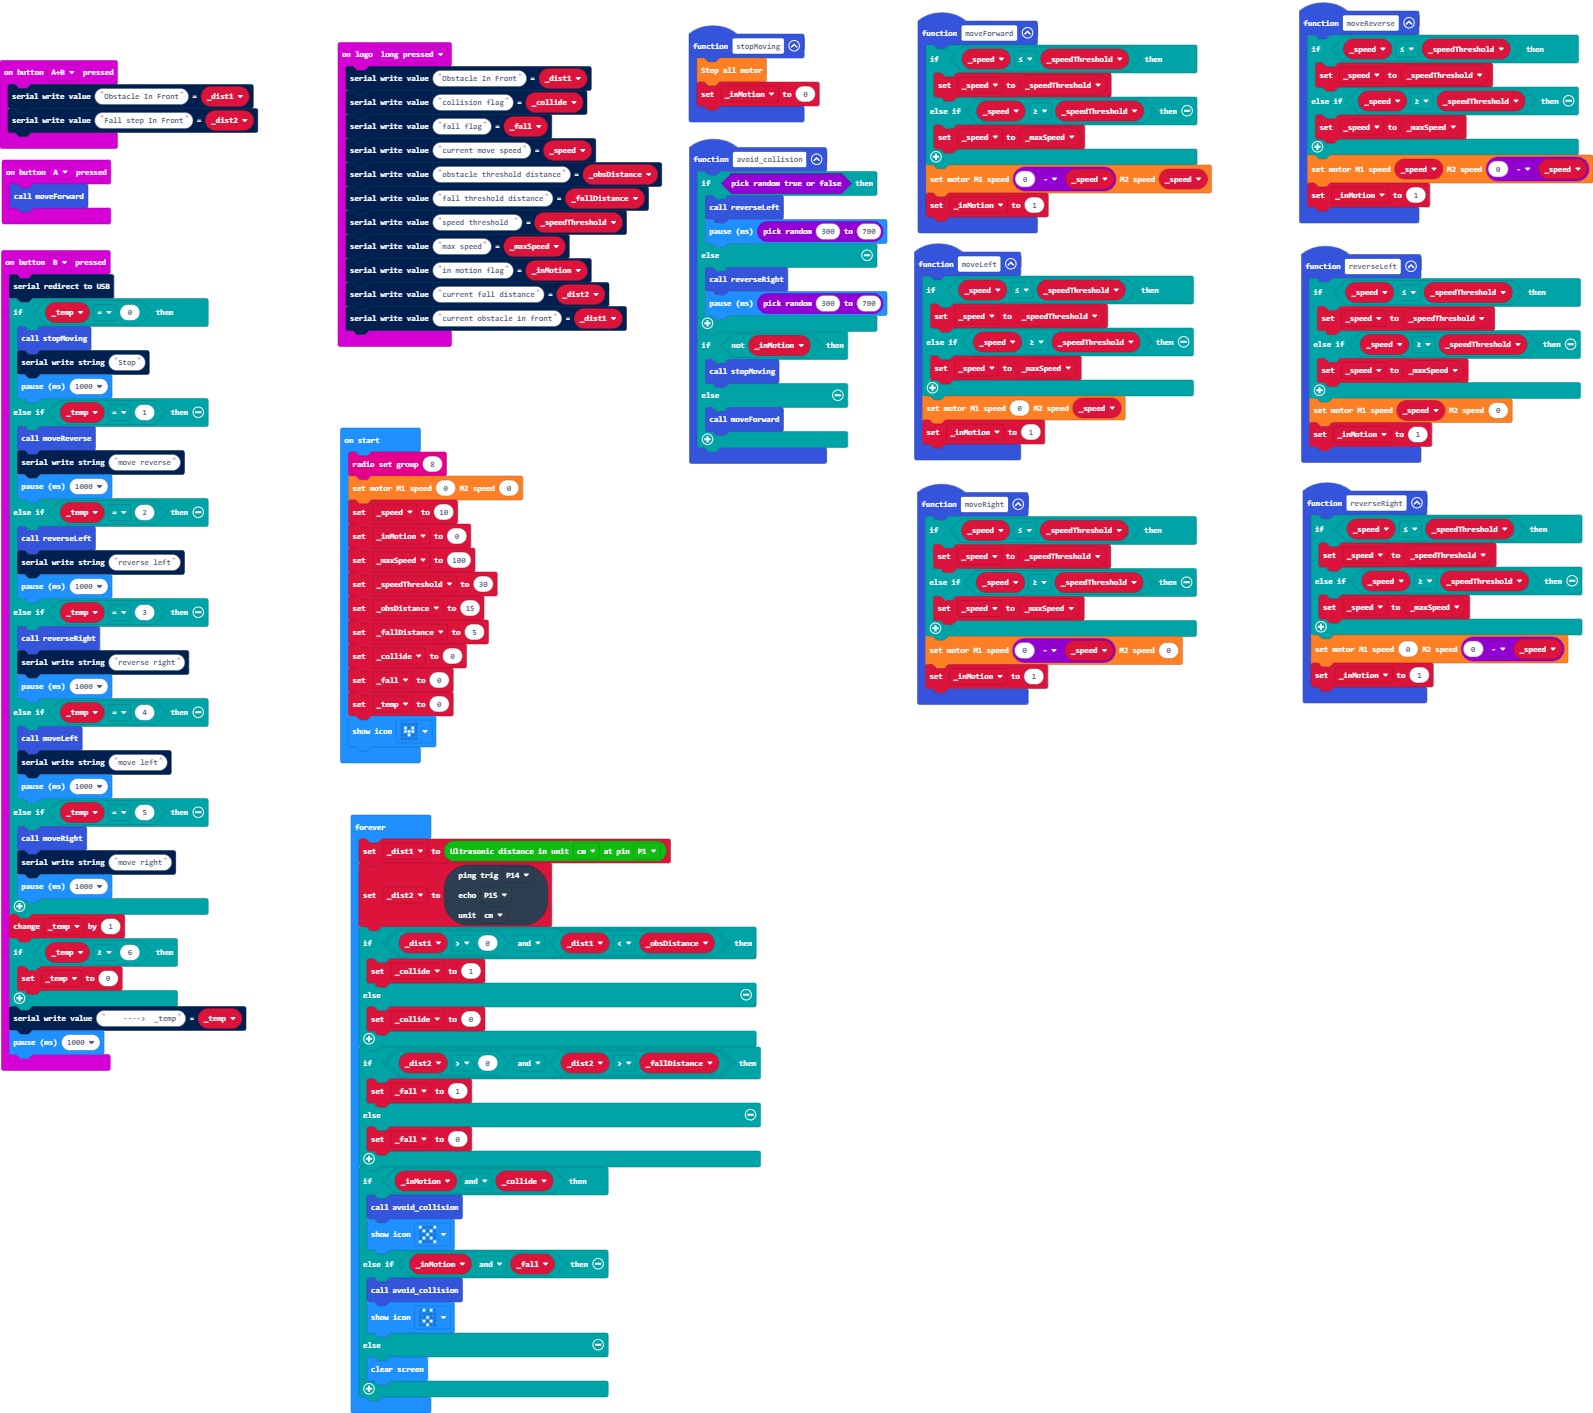
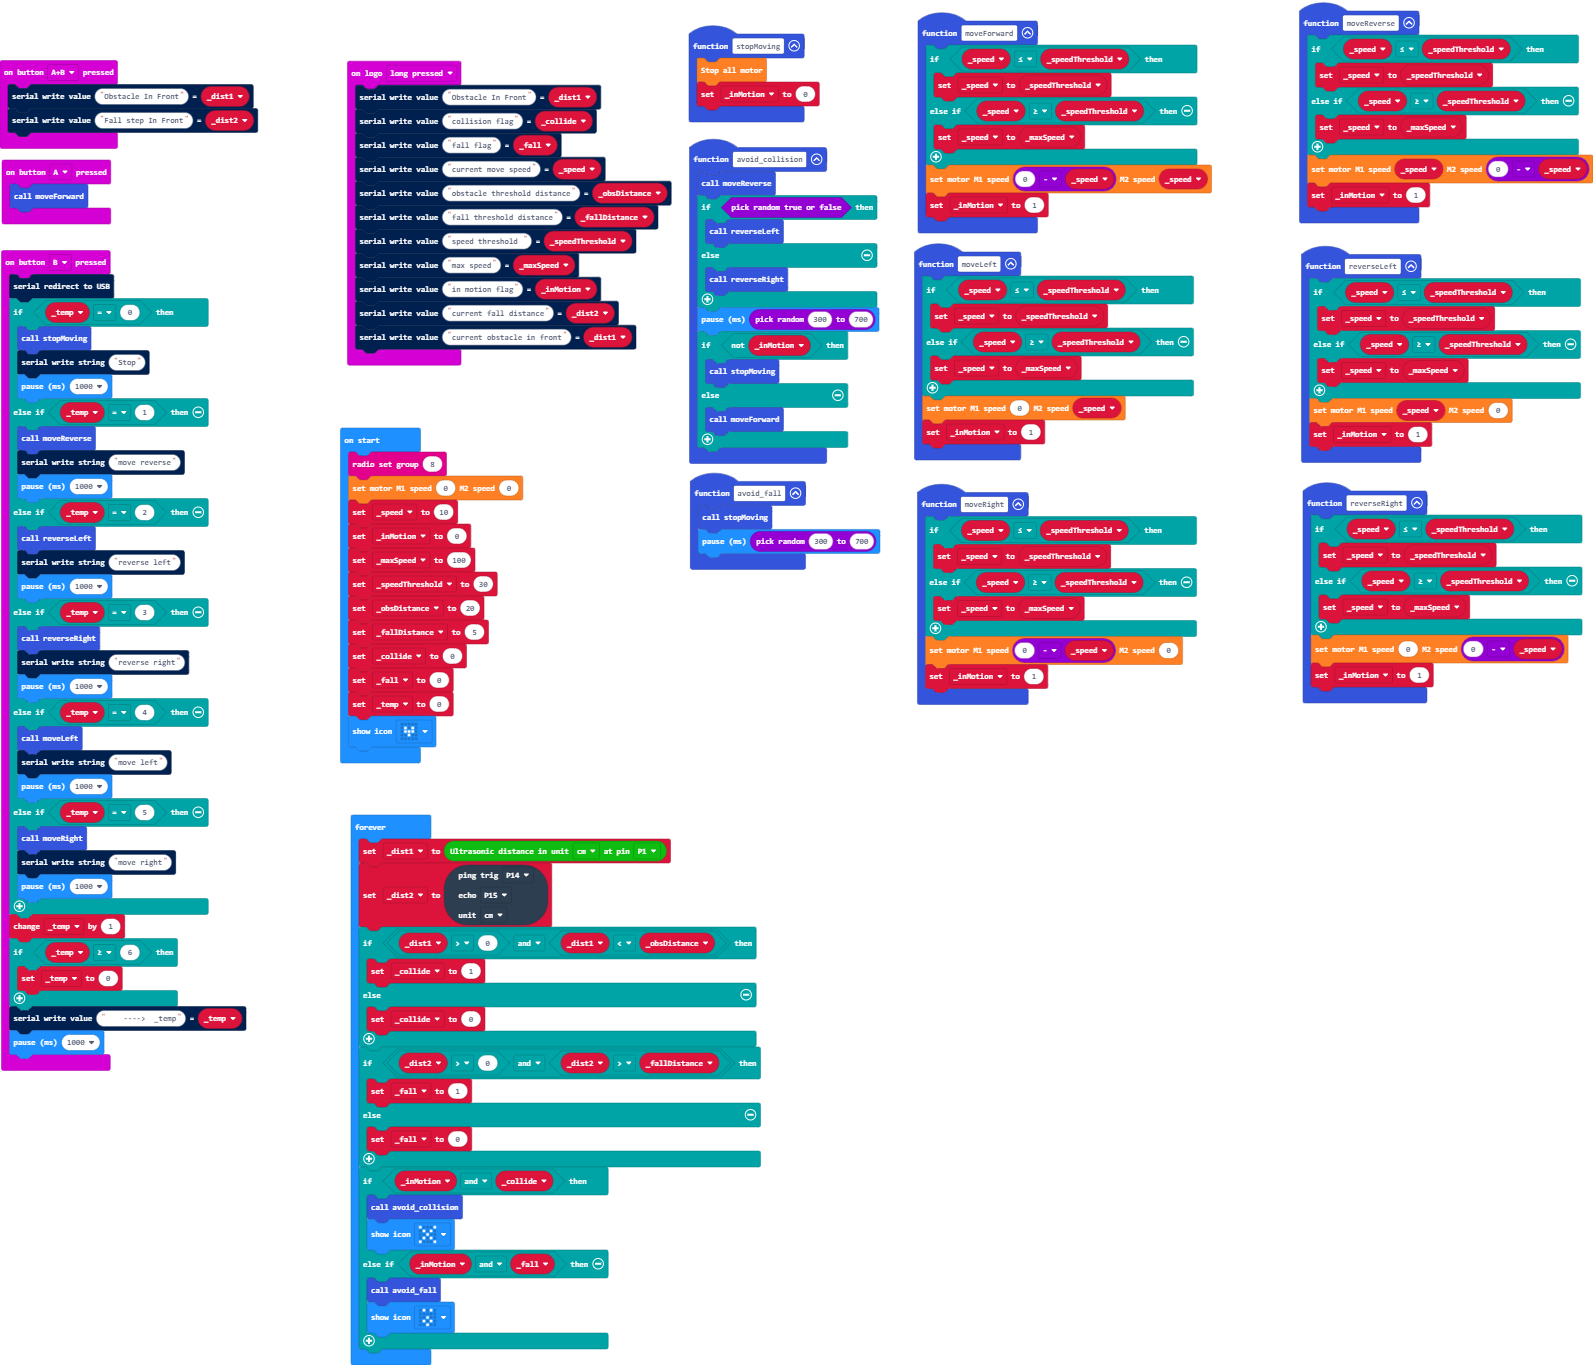
Update main.blocks, main.ts

Changed region(s): [[0.1846, 0.0, 0.769, 0.9846], [0.0, 0.0308, 0.1538, 0.8], [0.7997, 0.0, 1.0, 0.5231]]

diff --git a/main.ts b/main.ts
@@ -26,13 +26,13 @@ function moveForward () {
     _inMotion = 1
 }
 function avoid_collision () {
+    moveReverse()
     if (Math.randomBoolean()) {
         reverseLeft()
-        basic.pause(randint(300, 700))
     } else {
         reverseRight()
-        basic.pause(randint(300, 700))
     }
+    basic.pause(randint(300, 700))
     if (!(_inMotion)) {
         stopMoving()
     } else {
@@ -124,6 +124,10 @@ function moveLeft () {
     wuKong.setAllMotor(0, _speed)
     _inMotion = 1
 }
+function avoid_fall () {
+    stopMoving()
+    basic.pause(randint(300, 700))
+}
 let _dist2 = 0
 let _dist1 = 0
 let _temp = 0
@@ -141,7 +145,7 @@ _speed = 10
 _inMotion = 0
 _maxSpeed = 100
 _speedThreshold = 30
-_obsDistance = 15
+_obsDistance = 20
 _fallDistance = 5
 _collide = 0
 _fall = 0
@@ -168,9 +172,7 @@ basic.forever(function () {
         avoid_collision()
         basic.showIcon(IconNames.No)
     } else if (_inMotion && _fall) {
-        avoid_collision()
+        avoid_fall()
         basic.showIcon(IconNames.Surprised)
-    } else {
-        basic.clearScreen()
     }
 })
